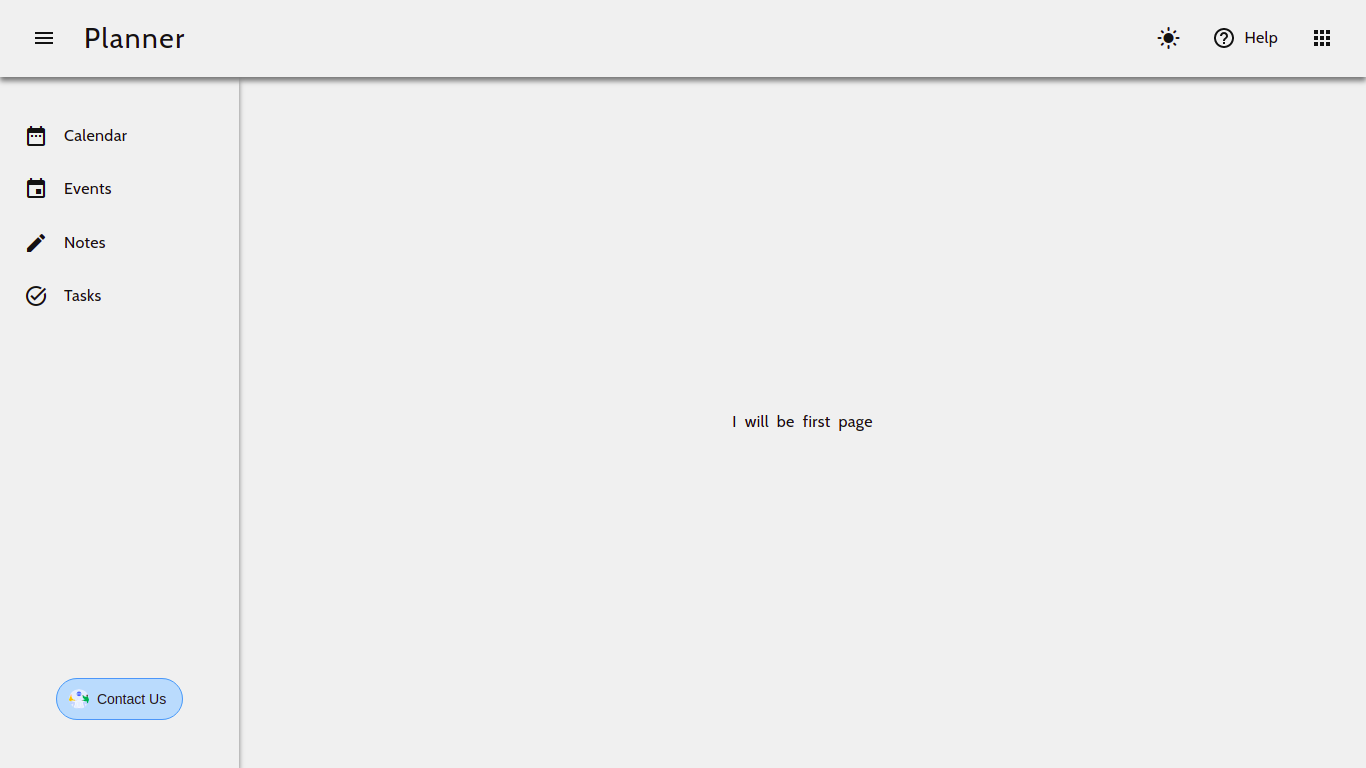
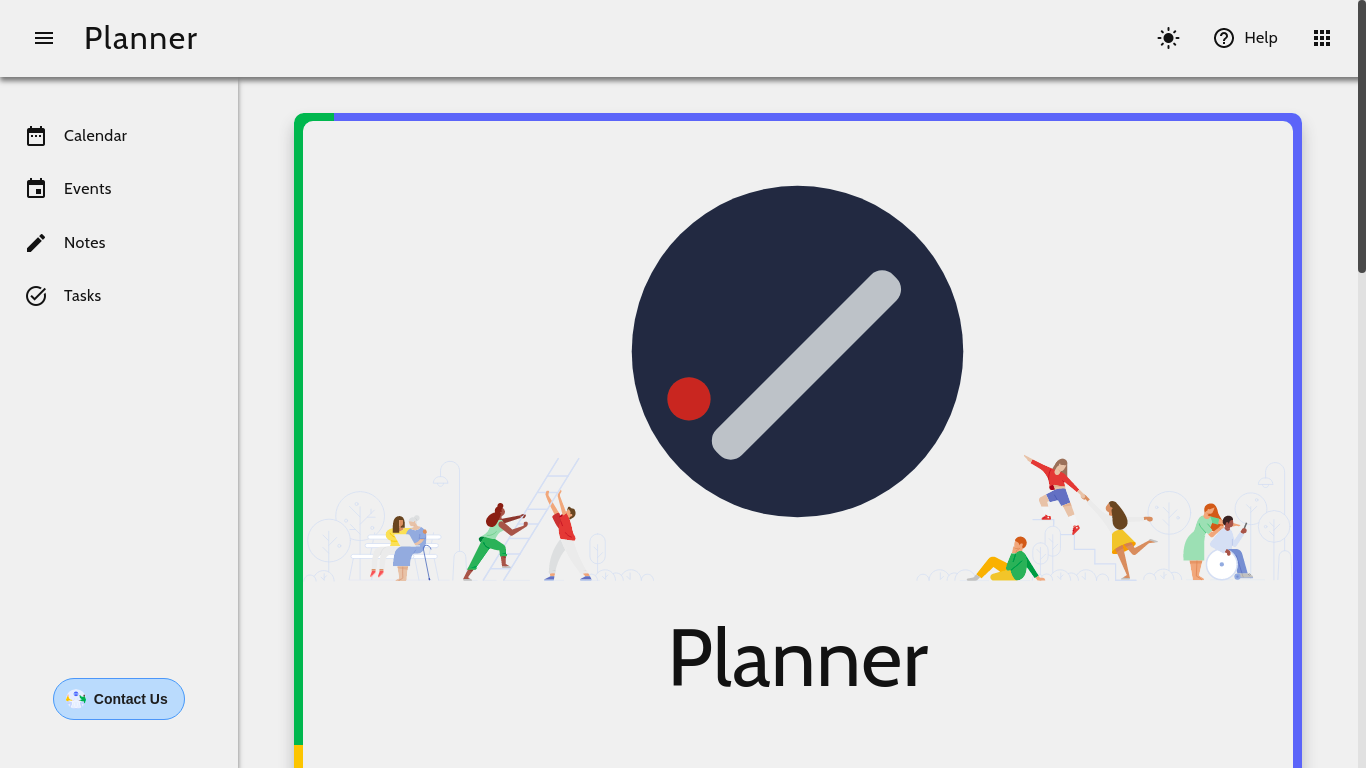
Fixed responsive view and html file

diff --git a/src/style.css b/src/style.css
@@ -113,34 +113,6 @@
   --back-shadow: rgba(255, 255, 255, 0.2);
   --back-shadow-light: rgba(255, 255, 255, 0.1); }
 
-/* @mixin respond($breakpoint){
-    @if $breakpoint == phone{
-        @media (max-width: 576px){@content};
-    }
-    @if $breakpoint == tab{
-        @media (max-width: 768px){@content};
-    }
-    @if $breakpoint == main{
-        @media (max-width: 992px){@content};
-    }
-    @if $breakpoint == big-desk{
-        @media (min-width: 992px){@content};
-    }
-} */
-/* @mixin respond($breakpoint){
-    @if $breakpoint == phone{
-        @media (max-width: 576px){@content};
-    }
-    @if $breakpoint == tab{
-        @media (max-width: 768px){@content};
-    }
-    @if $breakpoint == main{
-        @media (max-width: 992px){@content};
-    }
-    @if $breakpoint == big-desk{
-        @media (min-width: 992px){@content};
-    }
-} */
 .header {
   width: 100vw;
   height: 10vh;
@@ -178,7 +150,7 @@
           padding: 0.25rem; } }
     .header-left__title {
       padding: 0.5rem;
-      font-size: 1.75rem;
+      font-size: 2rem;
       letter-spacing: 0.1rem;
       user-select: none;
       cursor: pointer; }
@@ -556,7 +528,7 @@
     align-items: center;
     flex-flow: row;
     background-color: var(--bgcolor-100);
-    border-radius: 20px;
+    border-radius: 10px;
     padding: 2rem; }
     @media (max-width: 672px) {
       .events-head {
@@ -564,9 +536,6 @@
     .events-head-title {
       margin: 1rem;
       font-size: 2rem; }
-      @media (max-width: 672px) {
-        .events-head-title {
-          font-size: 1.5rem; } }
     .events-head-arrows {
       display: flex;
       justify-content: space-between;
@@ -633,6 +602,9 @@
   background-color: var(--bgcolor-100);
   border-radius: 10px;
   transition: all var(--transition-time) ease-in-out; }
+  @media (max-width: 672px) {
+    .event {
+      height: 60%; } }
   .event:hover {
     background-color: var(--bgcolor-400); }
   .event > * {
@@ -643,26 +615,24 @@
   .event__icon {
     width: 20%;
     justify-content: flex-end; }
-    .event__icon .material-icons {
-      font-size: 1.5rem; }
-      @media (max-width: 672px) {
-        .event__icon .material-icons {
-          font-size: 1.25rem; } }
+    @media (max-width: 672px) {
+      .event__icon .material-icons {
+        font-size: 1.75rem; } }
   .event-details {
     width: 80%;
     flex-flow: column; }
     .event-details > * {
       width: 80%;
       height: 35%;
-      padding: 0.15rem; }
+      padding: 0.15rem;
+      display: flex;
+      justify-content: flex-start;
+      align-items: center; }
     .event-details__title {
       font-size: 1.1rem;
       overflow: hidden;
       text-overflow: ellipsis;
       white-space: nowrap; }
-      @media (max-width: 672px) {
-        .event-details__title {
-          font-size: 0.9rem; } }
     .event-details__date {
       font-size: 0.75rem; }
 
@@ -720,15 +690,15 @@
       body.dark .event-popup-box__image {
         background-color: rgba(0, 0, 0, 0.25); }
       .event-popup-box__image__birthday {
-        background-image: url(images/birthday.jpg); }
+        background-image: url(./images/birthday.jpg); }
       .event-popup-box__image__anniversary {
-        background-image: url(images/marriage.jpg); }
+        background-image: url(./images/marriage.jpg); }
       .event-popup-box__image__meeting {
-        background-image: url(images/meeting.webp); }
+        background-image: url(./images/meeting.webp); }
       .event-popup-box__image__festival {
-        background-image: url(images/festival.jpg); }
+        background-image: url(./images/festival.jpg); }
       .event-popup-box__image__ceremony {
-        background-image: url(images/ceremony.jpg); }
+        background-image: url(./images/ceremony.jpg); }
       @media (max-width: 880px) {
         .event-popup-box__image {
           min-height: 40vh;
@@ -1371,35 +1341,6 @@
         justify-content: center;
         align-items: flex-start;
         flex-flow: column; }
-        .note-edit-box-form__content [data-title]:hover:after, .note-edit-link-box-form__content [data-title]:hover:after, .note-edit-color-box-form__content [data-title]:hover:after {
-          opacity: 1;
-          transition: all 0.1s ease 0.5s;
-          visibility: visible; }
-        .note-edit-box-form__content [data-title]:after, .note-edit-link-box-form__content [data-title]:after, .note-edit-color-box-form__content [data-title]:after {
-          content: attr(data-title);
-          position: absolute;
-          bottom: -1.6em;
-          left: 100%;
-          padding: 4px 4px 4px 8px;
-          color: #666;
-          white-space: nowrap;
-          -moz-border-radius: 5px;
-          -webkit-border-radius: 5px;
-          border-radius: 5px;
-          -moz-box-shadow: 0px 0px 4px #666;
-          -webkit-box-shadow: 0px 0px 4px #666;
-          box-shadow: 0px 0px 4px #666;
-          background-image: -moz-linear-gradient(top, #f0eded, #bfbdbd);
-          background-image: -webkit-gradient(linear, left top, left bottom, color-stop(0, #f0eded), color-stop(1, #bfbdbd));
-          background-image: -webkit-linear-gradient(top, #f0eded, #bfbdbd);
-          background-image: -moz-linear-gradient(top, #f0eded, #bfbdbd);
-          background-image: -ms-linear-gradient(top, #f0eded, #bfbdbd);
-          background-image: -o-linear-gradient(top, #f0eded, #bfbdbd);
-          opacity: 0;
-          z-index: 99999;
-          visibility: hidden; }
-        .note-edit-box-form__content [data-title], .note-edit-link-box-form__content [data-title], .note-edit-color-box-form__content [data-title] {
-          position: relative; }
       .note-edit-box-form__group, .note-edit-link-box-form__group, .note-edit-color-box-form__group {
         width: 100%;
         display: flex;
@@ -1882,18 +1823,18 @@
     overflow: hidden; }
     @media (max-width: 672px) {
       .help-head {
-        height: 40vh;
+        justify-content: center;
         flex-flow: column; } }
     .help-head-image {
       width: 25%;
       height: 100%;
       display: flex;
       justify-content: center;
-      align-items: center;
       align-items: center; }
       @media (max-width: 672px) {
         .help-head-image {
-          height: 40%; } }
+          height: 40%;
+          align-items: flex-end; } }
       .help-head-image__img {
         object-fit: cover;
         max-width: 75%;
@@ -1901,8 +1842,8 @@
         cursor: pointer; }
         @media (max-width: 672px) {
           .help-head-image__img {
-            max-width: 85%;
-            max-height: 85%; } }
+            max-width: 95%;
+            max-height: 95%; } }
     .help-head-heading {
       width: 75%;
       height: 100%;
@@ -1912,7 +1853,8 @@
       flex-flow: column; }
       @media (max-width: 672px) {
         .help-head-heading {
-          height: 60%; } }
+          height: 50%;
+          justify-content: space-evenly; } }
       .help-head-heading > * {
         width: 75%;
         height: 25%;
@@ -1926,7 +1868,6 @@
         font-size: 2rem; }
         @media (max-width: 672px) {
           .help-head-heading__title {
-            font-size: 1.5rem;
             height: 25%; } }
       .help-head-heading__subtitle {
         font-size: 1.2rem;
@@ -1934,8 +1875,7 @@
         color: var(--tcolor-100); }
         @media (max-width: 672px) {
           .help-head-heading__subtitle {
-            font-size: 1rem;
-            height: 60%; } }
+            height: 40%; } }
   .help-body {
     width: 100%;
     height: auto;
@@ -2071,10 +2011,6 @@
         font-size: 2.25rem;
         line-height: 2rem;
         margin: 0.5rem 0; }
-        @media (max-width: 672px) {
-          .help-guide-content-header__title {
-            font-size: 1.75rem;
-            padding: 0; } }
       .help-guide-content-header__subtitle {
         font-size: 0.875rem;
         margin: 0.5rem 0; }
@@ -2302,9 +2238,6 @@
       .card-skills__skill:hover {
         background-color: #1976d2;
         color: #121212; }
-      @media (max-width: 672px) {
-        .card-skills__skill {
-          margin: 0 0.1rem; } }
   .card-social {
     width: 100%;
     height: 15%;
@@ -2336,9 +2269,6 @@
       transition: all var(--transition-time) ease-in-out; }
       .card-social-link svg {
         cursor: pointer; }
-        @media (max-width: 672px) {
-          .card-social-link svg {
-            width: 90%; } }
       .card-social-link:hover {
         background-color: #303f9f; }
         .card-social-link:hover svg {
@@ -2652,16 +2582,6 @@ body,
 .main {
   position: absolute;
   top: 10vh;
-  /* background-image: url("https://www.transparenttextures.com/patterns/cubes.png");
-    background-image: url("https://www.transparenttextures.com/patterns/escheresque.png");
-    background-image: url("https://www.transparenttextures.com/patterns/gplay.png");
-    background-image: url("https://www.transparenttextures.com/patterns/shattered.png");
-    background-image: url("https://www.transparenttextures.com/patterns/xv.png");
-    body.dark &{
-        background-image: url("https://www.transparenttextures.com/patterns/escheresque-dark.png");
-        background-image: url("https://www.transparenttextures.com/patterns/shattered-dark.png");
-    }
-    background-color: rgba($bgcolor,0); */
   height: 90vh;
   display: flex;
   justify-content: center;

diff --git a/public/index.html b/public/index.html
@@ -9,8 +9,19 @@
   <link rel="stylesheet" href="https://fonts.googleapis.com/css?family=Roboto:300,400,500,700&display=swap" />
   <link href="https://fonts.googleapis.com/icon?family=Material+Icons" rel="stylesheet" />
   <link rel="shortcut icon" href="%PUBLIC_URL%/images/favicon.ico" type="image/x-icon" />
+  <link rel="apple-touch-icon-precomposed" sizes="144x144" href="%PUBLIC_URL%/images/favicon.png">
+  <link rel="apple-touch-icon-precomposed" sizes="114x114" href="%PUBLIC_URL%/images/favicon.png">
+  <link rel="apple-touch-icon-precomposed" sizes="72x72" href="%PUBLIC_URL%/images/favicon.png">
+  <link rel="apple-touch-icon-precomposed" href="%PUBLIC_URL%/images/favicon.png">
   <meta name="theme-color" content="#4285f4" />
-  <meta name="description" content="Get more done with Planner. Manage, capture and edit your daily events, notes and tasks." />
+  <meta name="description"
+    content="Get more done with Planner. Manage, capture and edit your daily events, notes and tasks." />
+  <meta name="author" content="Akshat Mittal" />
+  <meta property="og:image" content="%PUBLIC_URL%/images/favicon.png">
+  <meta property="og:description"
+    content="Get more done with Planner. Manage, capture and edit your daily events, notes and tasks.">
+  <meta property="og:title" content="Planner">
+  <meta name="twitter:title" content="Planner">
   <title>Planner</title>
 </head>
 

diff --git a/src/components/Help/PlannerNavigation.jsx b/src/components/Help/PlannerNavigation.jsx
@@ -100,8 +100,10 @@ const PlannerNavigation = ({ closeNav, GoToLink, submit }) => {
                                 Click on the Sun/Moon button to switch between light and dark themes.
                             </div>
                         </div>
-                        <div className="help-guide-content-body__image">
+                        <div className="help-guide-content-body__image" style={{height: "15rem"}}>
                             <img className="help-guide-content-body__image__img" src={i2a} alt="Light Theme" />
+                        </div>
+                        <div className="help-guide-content-body__image" style={{height: "15rem"}}>
                             <img className="help-guide-content-body__image__img" src={i2b} alt="Dark Theme" />
                         </div>
 

diff --git a/src/components/App.jsx b/src/components/App.jsx
@@ -15,7 +15,7 @@ import FeedBack from './FeedBack';
 
 const App = () => {
   const [sideBarExpand, setsideBarExpand] = useState((window.innerWidth > 880 ? true : false));
-  const [render, setRender] = useState(1);
+  const [render, setRender] = useState(0);
   const handleRender = (link) => {
     setsideBarExpand((window.innerWidth > 880 ? true : false));
     setRender(link + 1);
